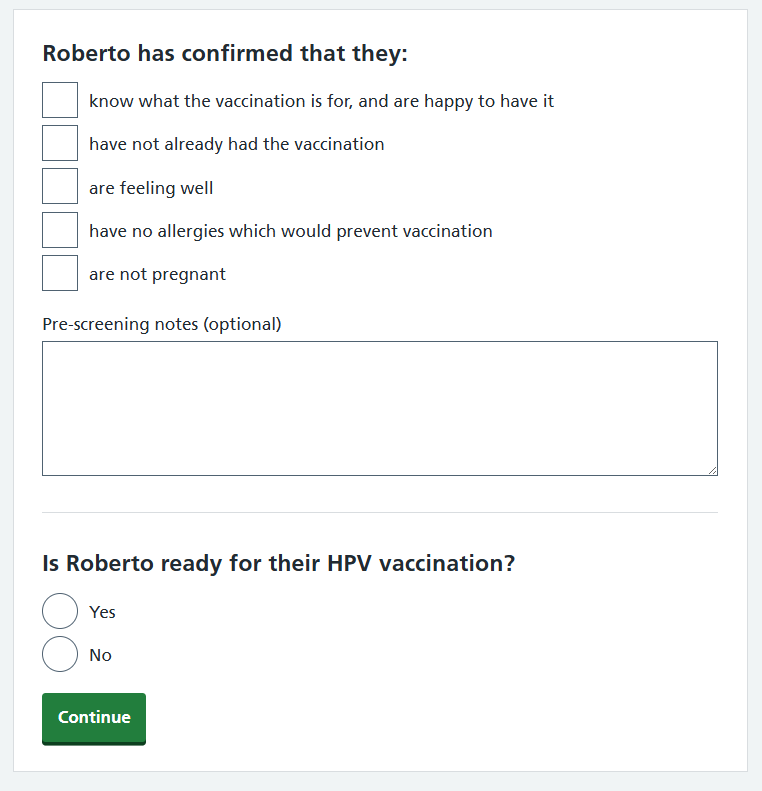
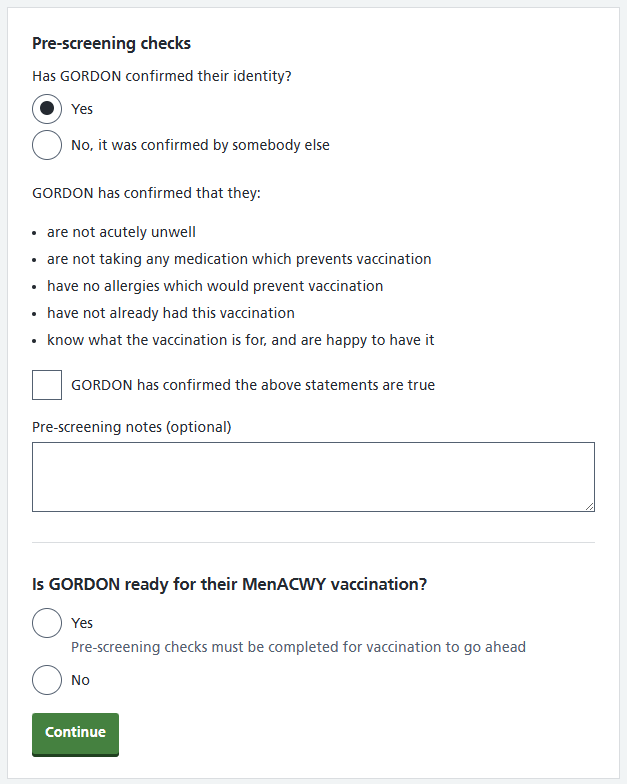
Add instructions on identifictaion as part of pre-screening
Update screenshots and add explixit instructions of child identification as part of pre-screening questions.

diff --git a/app/guide/recording-vaccinations.md b/app/guide/recording-vaccinations.md
@@ -7,18 +7,36 @@ eleventyComputed:
     key: Recording a vaccination
 ---
 
-To record a vaccination (or a vaccination that didn’t happen):
+To record a vaccination (or a vaccination that didn’t happen), follow the instructions below.
+
+## Select the child and programme
 
 1. Go to **Sessions**.
 2. Go to the **Today** tab.
 3. Click on the name of the school you’re attending.
 4. Click on **Record vaccinations** under the relevant programme.
-5. If you want to, you can filter the list by name or year group.
+5. A list of children’s names is displayed - you can filter the list by name or year group.
 6. Click on the name of the child in front of you.
-7. Once you’ve reviewed the information on the page, run through the pre-screening questions, selecting the relevant check boxes.
-8. Indicate whether you think the child is ready to vaccinate using the radio buttons at the bottom of the page.
+
+{% from "inset-text/macro.njk" import insetText %}
+{{ insetText({
+  html: " If you’re offering more than one vaccination programme at this session, make sure you select the relevant programme tab, near the top of the screen."
+}) }}
+
+![Screenshot of programme tabs on the patient session page.](/assets/images/session-programme-tabs.png)
+
+## Review the child’s details and do pre-screening checks
+
+Once you’ve reviewed the information on the page, you’ll need to confirm the child’s identity and carry out pre-screening checks.
+
+1. Select the relevant radio button to state whether the child or someone else confirmed their identity.
+2. If it was someone else, enter their name and relationship to the child.
+3. Run through the pre-screening checks and confirm you’ve checked the statements are correct. You can add notes if you want to. 
+4. Indicate whether you think the child is ready to vaccinate using the radio buttons at the bottom of the page.
 
 ![Screenshot of pre-screening questions on a patient record.](/assets/images/session-child-pre-screen.png 'Mavis will ask a series of pre-screening questions before you record a vaccination.')
+
+## Record the outcome
 
 If the child was vaccinated:
 
